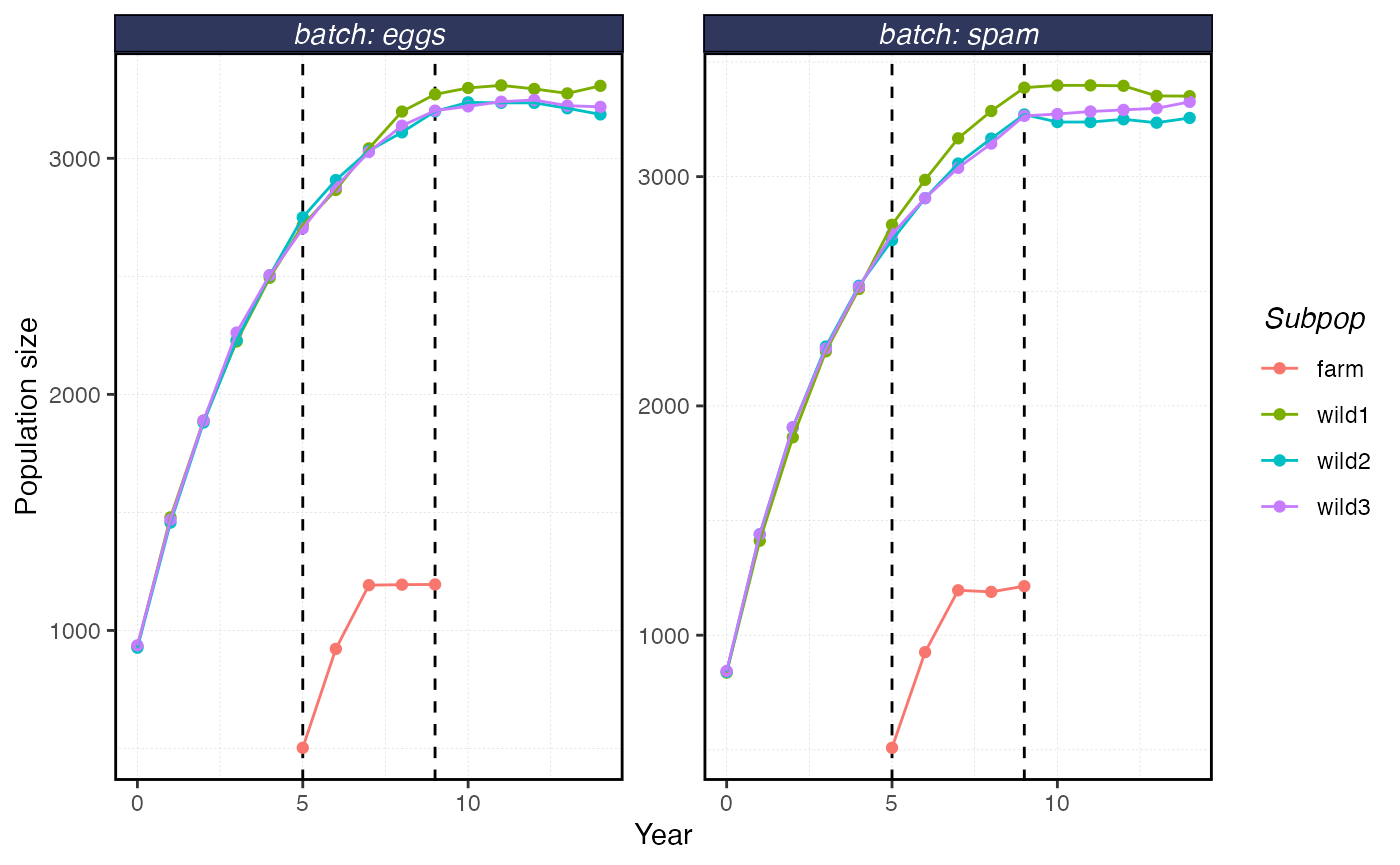
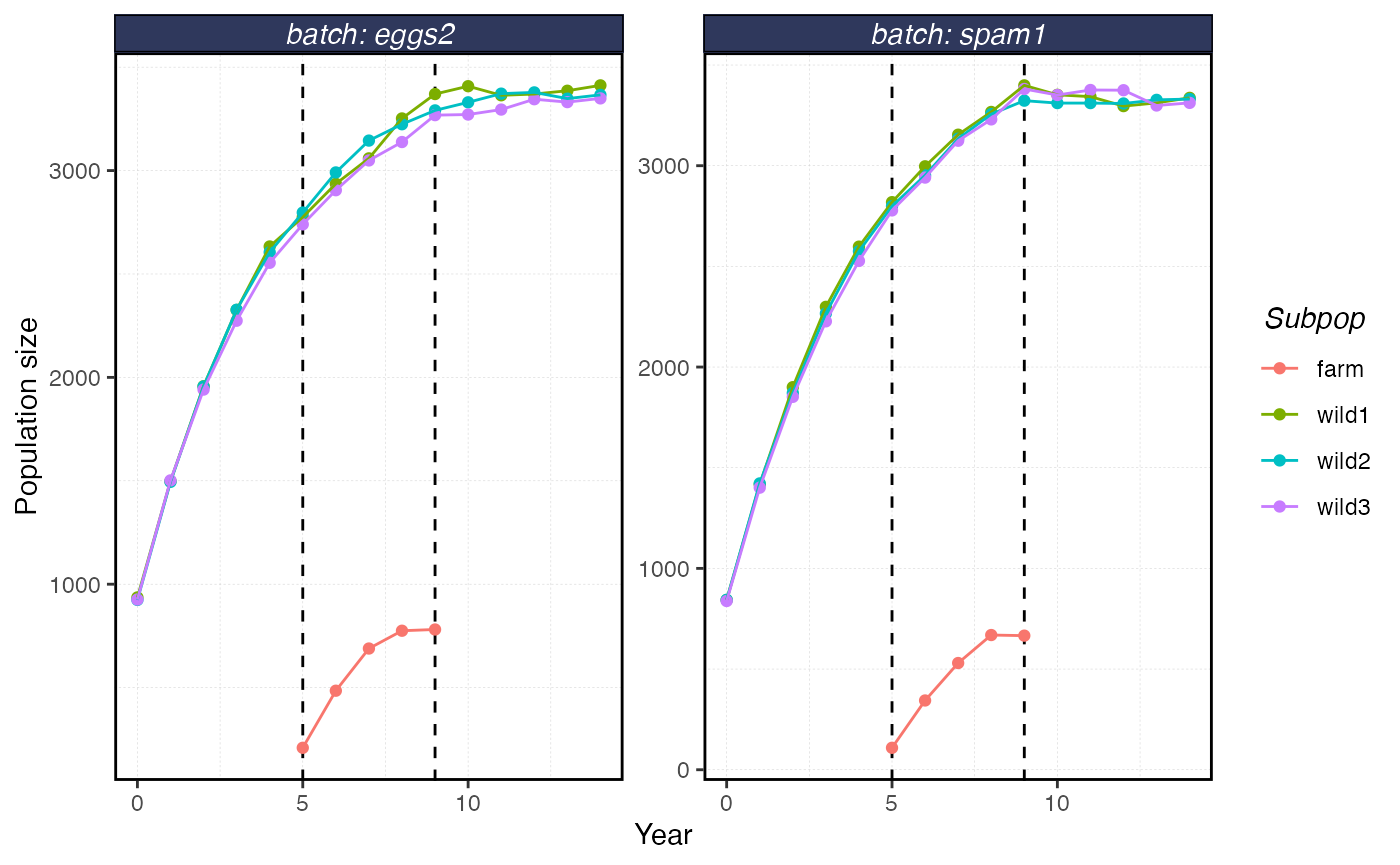
fix to allow numbers in batch name

diff --git a/docs/articles/shellfishrisk.html b/docs/articles/shellfishrisk.html
@@ -128,7 +128,7 @@
 <span class="co"># Run shellfishrisk model: this takes about 20min with these </span>
 <span class="co"># demonstration settings</span>
 <span class="fu">shellfishrisk</span><span class="op">(</span>
-  batch <span class="op">=</span> <span class="st">"spam"</span>,
+  batch <span class="op">=</span> <span class="st">"spam1"</span>,
   reps <span class="op">=</span> <span class="va">reps</span>,
   coreid <span class="op">=</span> <span class="va">coreid</span>,
   pre_farm_years <span class="op">=</span> <span class="va">pre_farm_years</span>,
@@ -139,33 +139,34 @@
 <span class="op">)</span>
 
 <span class="fu">shellfishrisk</span><span class="op">(</span>
-  batch <span class="op">=</span> <span class="st">"eggs"</span>,
+  batch <span class="op">=</span> <span class="st">"eggs2"</span>,
   reps <span class="op">=</span> <span class="va">reps</span>,
   coreid <span class="op">=</span> <span class="va">coreid</span>,
   pre_farm_years <span class="op">=</span> <span class="va">pre_farm_years</span>,
   farm_years <span class="op">=</span> <span class="va">farm_years</span>,
   post_farm_years <span class="op">=</span> <span class="va">post_farm_years</span>,
   wild_N_init <span class="op">=</span> <span class="fl">200</span>,
-  seed_batch_size <span class="op">=</span> <span class="fl">100</span>,
+  seed_batch_size <span class="op">=</span> <span class="fl">100</span>
 <span class="op">)</span></code></pre></div>
 <div class="sourceCode" id="cb3"><pre class="downlit sourceCode r">
-<code class="sourceCode R"><span class="va">results</span> <span class="op">&lt;-</span> <span class="fu"><a href="../reference/serve_shellfish.html">serve_shellfish</a></span><span class="op">(</span>batches <span class="op">=</span> <span class="fu"><a href="https://rdrr.io/r/base/c.html">c</a></span><span class="op">(</span><span class="st">"spam"</span>,<span class="st">"eggs"</span><span class="op">)</span><span class="op">)</span> <span class="co"># read the results stored in .txt files into a list object</span>
+<code class="sourceCode R"><span class="va">results</span> <span class="op">&lt;-</span> <span class="fu"><a href="../reference/serve_shellfish.html">serve_shellfish</a></span><span class="op">(</span>batches <span class="op">=</span> <span class="fu"><a href="https://rdrr.io/r/base/c.html">c</a></span><span class="op">(</span><span class="st">"spam1"</span>,<span class="st">"eggs2"</span><span class="op">)</span>,
+                           results_dir <span class="op">=</span> <span class="fu">here</span><span class="fu">::</span><span class="fu"><a href="https://here.r-lib.org//reference/here.html">here</a></span><span class="op">(</span><span class="st">"vignettes"</span>,<span class="st">"results"</span><span class="op">)</span><span class="op">)</span> <span class="co"># read the results stored in .txt files into a list object</span>
 
 <span class="va">results</span><span class="op">$</span><span class="va">survival</span>
 <span class="co">#&gt; # A tibble: 22 × 4</span>
 <span class="co">#&gt; # Groups:   batch [2]</span>
 <span class="co">#&gt;    batch   age survival survivorship</span>
 <span class="co">#&gt;    &lt;chr&gt; &lt;dbl&gt;    &lt;dbl&gt;        &lt;dbl&gt;</span>
-<span class="co">#&gt;  1 eggs      0   0.741        1     </span>
-<span class="co">#&gt;  2 eggs      1   0.738        0.741 </span>
-<span class="co">#&gt;  3 eggs      2   0.685        0.547 </span>
-<span class="co">#&gt;  4 eggs      3   0.727        0.375 </span>
-<span class="co">#&gt;  5 eggs      4   0.726        0.272 </span>
-<span class="co">#&gt;  6 eggs      5   0.724        0.198 </span>
-<span class="co">#&gt;  7 eggs      6   0.717        0.143 </span>
-<span class="co">#&gt;  8 eggs      7   0.713        0.103 </span>
-<span class="co">#&gt;  9 eggs      8   0.693        0.0731</span>
-<span class="co">#&gt; 10 eggs      9   0.0382       0.0507</span>
+<span class="co">#&gt;  1 eggs2     0   0.742        1     </span>
+<span class="co">#&gt;  2 eggs2     1   0.734        0.742 </span>
+<span class="co">#&gt;  3 eggs2     2   0.709        0.545 </span>
+<span class="co">#&gt;  4 eggs2     3   0.730        0.386 </span>
+<span class="co">#&gt;  5 eggs2     4   0.728        0.282 </span>
+<span class="co">#&gt;  6 eggs2     5   0.718        0.205 </span>
+<span class="co">#&gt;  7 eggs2     6   0.714        0.147 </span>
+<span class="co">#&gt;  8 eggs2     7   0.712        0.105 </span>
+<span class="co">#&gt;  9 eggs2     8   0.688        0.0749</span>
+<span class="co">#&gt; 10 eggs2     9   0.0276       0.0515</span>
 <span class="co">#&gt; # … with 12 more rows</span>
 
 <span class="fu"><a href="../reference/plot_shellfish.html">plot_shellfish</a></span><span class="op">(</span><span class="va">results</span>, type <span class="op">=</span> <span class="st">"rvars"</span><span class="op">)</span></code></pre></div>

diff --git a/docs/articles/ctrlfile.html b/docs/articles/ctrlfile.html
@@ -105,7 +105,7 @@
 <span class="fu"><a href="../reference/load_shellfish.html">load_shellfish</a></span><span class="op">(</span><span class="op">)</span>
 <span class="co">#&gt; shellfishrisks is using Conda environment r-reticulate</span>
 
-<span class="va">batch</span> <span class="op">&lt;-</span> <span class="st">"ctrl_demo"</span></code></pre></div>
+<span class="va">batch</span> <span class="op">&lt;-</span> <span class="st">"ctrl_demo_2"</span></code></pre></div>
 <p>First, we’ll generate a control file with the default settings. This copies a .csv file named in this case “ctrl_file.csv” to your working directory. You could then open that file up and modify as you see fit.</p>
 <div class="sourceCode" id="cb2"><pre class="downlit sourceCode r">
 <code class="sourceCode R"><span class="va">ctrl_file_path</span> <span class="op">&lt;-</span> <span class="fu"><a href="../reference/generate_ctrl_file.html">generate_ctrl_file</a></span><span class="op">(</span><span class="st">"ctrl_file"</span><span class="op">)</span></code></pre></div>
@@ -119,19 +119,19 @@
 <span class="va">results</span><span class="op">$</span><span class="va">survival</span>
 <span class="co">#&gt; # A tibble: 11 × 4</span>
 <span class="co">#&gt; # Groups:   batch [1]</span>
-<span class="co">#&gt;    batch       age survival survivorship</span>
-<span class="co">#&gt;    &lt;chr&gt;     &lt;dbl&gt;    &lt;dbl&gt;        &lt;dbl&gt;</span>
-<span class="co">#&gt;  1 ctrl_demo     0   0.529      1       </span>
-<span class="co">#&gt;  2 ctrl_demo     1   0.410      0.529   </span>
-<span class="co">#&gt;  3 ctrl_demo     2   0.0480     0.217   </span>
-<span class="co">#&gt;  4 ctrl_demo     3   0.807      0.0104  </span>
-<span class="co">#&gt;  5 ctrl_demo     4   0.677      0.00840 </span>
-<span class="co">#&gt;  6 ctrl_demo     5   0.611      0.00568 </span>
-<span class="co">#&gt;  7 ctrl_demo     6   0.692      0.00347 </span>
-<span class="co">#&gt;  8 ctrl_demo     7   0.633      0.00240 </span>
-<span class="co">#&gt;  9 ctrl_demo     8   0.575      0.00152 </span>
-<span class="co">#&gt; 10 ctrl_demo     9   0.278      0.000875</span>
-<span class="co">#&gt; 11 ctrl_demo    10   0          0.000243</span>
+<span class="co">#&gt;    batch         age survival survivorship</span>
+<span class="co">#&gt;    &lt;chr&gt;       &lt;dbl&gt;    &lt;dbl&gt;        &lt;dbl&gt;</span>
+<span class="co">#&gt;  1 ctrl_demo_2     0   0.536      1       </span>
+<span class="co">#&gt;  2 ctrl_demo_2     1   0.393      0.536   </span>
+<span class="co">#&gt;  3 ctrl_demo_2     2   0.0429     0.211   </span>
+<span class="co">#&gt;  4 ctrl_demo_2     3   0.841      0.00903 </span>
+<span class="co">#&gt;  5 ctrl_demo_2     4   0.702      0.00759 </span>
+<span class="co">#&gt;  6 ctrl_demo_2     5   0.633      0.00533 </span>
+<span class="co">#&gt;  7 ctrl_demo_2     6   0.642      0.00338 </span>
+<span class="co">#&gt;  8 ctrl_demo_2     7   0.644      0.00217 </span>
+<span class="co">#&gt;  9 ctrl_demo_2     8   0.685      0.00140 </span>
+<span class="co">#&gt; 10 ctrl_demo_2     9   0.205      0.000957</span>
+<span class="co">#&gt; 11 ctrl_demo_2    10   0          0.000196</span>
 
 <span class="fu"><a href="../reference/plot_shellfish.html">plot_shellfish</a></span><span class="op">(</span><span class="va">results</span>, type <span class="op">=</span> <span class="st">"rvars"</span><span class="op">)</span></code></pre></div>
 <p><img src="ctrlfile_files/figure-html/unnamed-chunk-4-1.png" width="700"></p>

diff --git a/README.md b/README.md
@@ -114,7 +114,7 @@ post_farm_years <- 1
 # Run shellfishrisk model: this takes about 20min with these 
 # demonstration settings
 shellfishrisk(
-  batch = "demo",
+  batch = "demo1",
   reps = reps,
   coreid = coreid,
   pre_farm_years = pre_farm_years,
@@ -129,7 +129,7 @@ shellfishrisk(
 ```
 
 ``` r
-results <- serve_shellfish(batches = c("demo")) # read the results stored in .txt files into a list object
+results <- serve_shellfish(batches = c("demo1")) # read the results stored in .txt files into a list object
 
 str(results)
 #> List of 9
@@ -143,46 +143,46 @@ str(results)
 #>   ..$ Allele         : int [1:500] 0 1 0 1 0 1 0 1 0 1 ...
 #>   ..$ Adaptive       : chr [1:500] "True" "True" "True" "True" ...
 #>   ..$ Adv            : chr [1:500] "True" "False" "True" "False" ...
-#>   ..$ AlleleFrequency: num [1:500] 0.9472 0.0528 0.9033 0.0967 0.8897 ...
-#>   ..$ batch          : chr [1:500] "demo" "demo" "demo" "demo" ...
-#>  $ bstock_report   :'data.frame':    8 obs. of  5 variables:
-#>   ..$ coreid            : int [1:8] 1 1 1 1 1 1 1 1
-#>   ..$ Rep               : int [1:8] 0 0 0 0 0 0 0 0
-#>   ..$ Year              : int [1:8] 1 1 1 1 1 1 1 1
-#>   ..$ IndID_survivedAgeX: num [1:8] 18840 18814 18838 18801 18842 ...
-#>   ..$ batch             : chr [1:8] "demo" "demo" "demo" "demo" ...
+#>   ..$ AlleleFrequency: num [1:500] 0.8874 0.1126 0.9607 0.0393 0.8945 ...
+#>   ..$ batch          : chr [1:500] "demo1" "demo1" "demo1" "demo1" ...
+#>  $ bstock_report   :'data.frame':    9 obs. of  5 variables:
+#>   ..$ coreid            : int [1:9] 1 1 1 1 1 1 1 1 1
+#>   ..$ Rep               : int [1:9] 0 0 0 0 0 0 0 0 0
+#>   ..$ Year              : int [1:9] 1 1 1 1 1 1 1 1 1
+#>   ..$ IndID_survivedAgeX: num [1:9] 91 42 30 31 84 81 29 90 78
+#>   ..$ batch             : chr [1:9] "demo1" "demo1" "demo1" "demo1" ...
 #>  $ harvest         :'data.frame':    3 obs. of  6 variables:
 #>   ..$ coreid       : int [1:3] 1 1 1
 #>   ..$ Srep         : int [1:3] 1 1 1
 #>   ..$ Rep          : int [1:3] 0 0 0
 #>   ..$ Year         : int [1:3] 0 1 2
 #>   ..$ IndsHarvested: int [1:3] 0 0 0
-#>   ..$ batch        : chr [1:3] "demo" "demo" "demo"
-#>  $ life_hist_report:'data.frame':    123846 obs. of  13 variables:
-#>   ..$ coreid       : int [1:123846] 1 1 1 1 1 1 1 1 1 1 ...
-#>   ..$ Rep          : int [1:123846] 0 0 0 0 0 0 0 0 0 0 ...
-#>   ..$ Year         : int [1:123846] 0 0 0 0 0 0 0 0 0 0 ...
-#>   ..$ Month        : chr [1:123846] "Jan" "Jan" "Jan" "Jan" ...
-#>   ..$ Subpop       : chr [1:123846] "wild1" "wild1" "wild1" "wild1" ...
-#>   ..$ IndID        : num [1:123846] 18766 18767 18768 18769 18770 ...
-#>   ..$ Sex          : int [1:123846] 2 2 1 1 1 1 1 2 2 2 ...
-#>   ..$ CohortYear   : num [1:123846] 0 0 0 0 0 0 0 0 0 0 ...
-#>   ..$ Age          : num [1:123846] 7 4.83 1.5 1.67 1.58 ...
-#>   ..$ Mother_id    : num [1:123846] 0 0 0 0 0 0 0 0 0 0 ...
-#>   ..$ Father_id    : num [1:123846] 0 0 0 0 0 0 0 0 0 0 ...
-#>   ..$ meanParentAge: num [1:123846] 0 0 0 0 0 0 0 0 0 0 ...
-#>   ..$ batch        : chr [1:123846] "demo" "demo" "demo" "demo" ...
+#>   ..$ batch        : chr [1:3] "demo1" "demo1" "demo1"
+#>  $ life_hist_report:'data.frame':    123342 obs. of  13 variables:
+#>   ..$ coreid       : int [1:123342] 1 1 1 1 1 1 1 1 1 1 ...
+#>   ..$ Rep          : int [1:123342] 0 0 0 0 0 0 0 0 0 0 ...
+#>   ..$ Year         : int [1:123342] 0 0 0 0 0 0 0 0 0 0 ...
+#>   ..$ Month        : chr [1:123342] "Jan" "Jan" "Jan" "Jan" ...
+#>   ..$ Subpop       : chr [1:123342] "wild1" "wild1" "wild1" "wild1" ...
+#>   ..$ IndID        : num [1:123342] 1 2 3 4 5 6 7 8 9 10 ...
+#>   ..$ Sex          : int [1:123342] 2 2 2 2 2 1 2 2 1 2 ...
+#>   ..$ CohortYear   : num [1:123342] 0 0 0 0 0 0 0 0 0 0 ...
+#>   ..$ Age          : num [1:123342] 4.17 9.33 2.5 2.83 1.5 ...
+#>   ..$ Mother_id    : num [1:123342] 0 0 0 0 0 0 0 0 0 0 ...
+#>   ..$ Father_id    : num [1:123342] 0 0 0 0 0 0 0 0 0 0 ...
+#>   ..$ meanParentAge: num [1:123342] 0 0 0 0 0 0 0 0 0 0 ...
+#>   ..$ batch        : chr [1:123342] "demo1" "demo1" "demo1" "demo1" ...
 #>  $ log             :'data.frame':    3 obs. of  10 variables:
 #>   ..$ coreid    : int [1:3] 1 1 1
 #>   ..$ rep       : int [1:3] 0 0 0
 #>   ..$ farm_phase: chr [1:3] "pre-farm" "during-farm" "post-farm"
 #>   ..$ year      : int [1:3] 0 1 2
-#>   ..$ wild1_size: int [1:3] 705 1206 1604
-#>   ..$ wild2_size: int [1:3] 735 1242 1638
-#>   ..$ wild3_size: int [1:3] 708 1195 1594
-#>   ..$ farm_size : int [1:3] NA 495 NA
-#>   ..$ time_stamp: chr [1:3] "2021-08-28_16:42:47" "2021-08-28_16:45:42" "2021-08-28_16:50:03"
-#>   ..$ batch     : chr [1:3] "demo" "demo" "demo"
+#>   ..$ wild1_size: int [1:3] 730 1206 1572
+#>   ..$ wild2_size: int [1:3] 710 1203 1570
+#>   ..$ wild3_size: int [1:3] 722 1201 1587
+#>   ..$ farm_size : int [1:3] NA 498 NA
+#>   ..$ time_stamp: chr [1:3] "2021-09-02_22:29:54" "2021-09-02_22:32:57" "2021-09-02_22:36:50"
+#>   ..$ batch     : chr [1:3] "demo1" "demo1" "demo1"
 #>  $ pop_pair_rvars  :'data.frame':    36 obs. of  8 variables:
 #>   ..$ coreid  : int [1:36] 1 1 1 1 1 1 1 1 1 1 ...
 #>   ..$ Srep    : int [1:36] 1 1 1 1 1 1 1 1 1 1 ...
@@ -190,8 +190,8 @@ str(results)
 #>   ..$ Year    : int [1:36] 0 0 0 0 0 0 0 0 0 1 ...
 #>   ..$ Pop_pair: chr [1:36] "wild1_wild2" "wild1_wild2" "wild1_wild2" "wild2_wild3" ...
 #>   ..$ Rvar    : chr [1:36] "Fst" "Fst_aL" "Fst_nL" "Fst" ...
-#>   ..$ Value   : num [1:36] 0.00582 0.00494 0.00629 0.00358 0.0035 ...
-#>   ..$ batch   : chr [1:36] "demo" "demo" "demo" "demo" ...
+#>   ..$ Value   : num [1:36] 0.00823 0.00996 0.00728 0.00831 0.01122 ...
+#>   ..$ batch   : chr [1:36] "demo1" "demo1" "demo1" "demo1" ...
 #>  $ pop_rvars       :'data.frame':    40 obs. of  8 variables:
 #>   ..$ coreid: int [1:40] 1 1 1 1 1 1 1 1 1 1 ...
 #>   ..$ Srep  : int [1:40] 1 1 1 1 1 1 1 1 1 1 ...
@@ -199,23 +199,23 @@ str(results)
 #>   ..$ Year  : int [1:40] 0 0 0 0 0 0 0 0 0 0 ...
 #>   ..$ Subpop: chr [1:40] "wild1" "wild1" "wild1" "wild1" ...
 #>   ..$ Rvar  : chr [1:40] "mfit" "popsize" "het" "ar" ...
-#>   ..$ Value : num [1:40] 0.997 843 1 1820 0.996 ...
-#>   ..$ batch : chr [1:40] "demo" "demo" "demo" "demo" ...
+#>   ..$ Value : num [1:40] 0.997 839 1 1800 0.996 ...
+#>   ..$ batch : chr [1:40] "demo1" "demo1" "demo1" "demo1" ...
 #>  $ temp_rvars      :'data.frame':    3 obs. of  7 variables:
 #>   ..$ coreid: int [1:3] 1 1 1
 #>   ..$ Srep  : int [1:3] 1 1 1
 #>   ..$ Rep   : int [1:3] 0 0 0
 #>   ..$ Subpop: chr [1:3] "wild1" "wild2" "wild3"
 #>   ..$ Rvar  : chr [1:3] "Fst" "Fst" "Fst"
-#>   ..$ Value : num [1:3] 7.56e-04 -9.99e-05 8.35e-04
-#>   ..$ batch : chr [1:3] "demo" "demo" "demo"
+#>   ..$ Value : num [1:3] 0.000103 0.00032 -0.000164
+#>   ..$ batch : chr [1:3] "demo1" "demo1" "demo1"
 #>  $ survival        : grouped_df [11 × 4] (S3: grouped_df/tbl_df/tbl/data.frame)
-#>   ..$ batch       : chr [1:11] "demo" "demo" "demo" "demo" ...
+#>   ..$ batch       : chr [1:11] "demo1" "demo1" "demo1" "demo1" ...
 #>   ..$ age         : num [1:11] 0 1 2 3 4 5 6 7 8 9 ...
-#>   ..$ survival    : num [1:11] 0.5319 0.3704 0.0559 0.7586 0.6838 ...
-#>   ..$ survivorship: num [1:11] 1 0.53193 0.197 0.011 0.00835 ...
+#>   ..$ survival    : num [1:11] 0.5304 0.3782 0.0432 0.8119 0.6364 ...
+#>   ..$ survivorship: num [1:11] 1 0.53045 0.20059 0.00866 0.00703 ...
 #>   ..- attr(*, "groups")= tibble [1 × 2] (S3: tbl_df/tbl/data.frame)
-#>   .. ..$ batch: chr "demo"
+#>   .. ..$ batch: chr "demo1"
 #>   .. ..$ .rows: list<int> [1:1] 
 #>   .. .. ..$ : int [1:11] 1 2 3 4 5 6 7 8 9 10 ...
 #>   .. .. ..@ ptype: int(0) 
